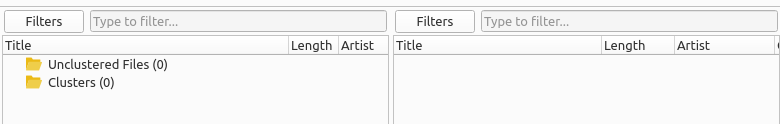
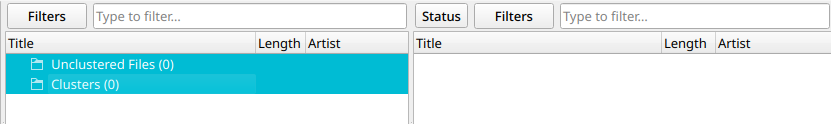
Added documentation for the Album Pane Status filter
A new Status filter button has been added to the Album Pane, that allows filtering Albums out based on whether the Status checkboxes are *unchecked*.
The supported statues are `Modified`, `Unmodified`, `Complete`, `Incomplete`

Changed region(s): [[0.0, 0.0242, 1.0, 1.0]]

diff --git a/getting_started/main_screen_filter.rst b/getting_started/main_screen_filter.rst
@@ -10,7 +10,10 @@ The items displayed in the Cluster Pane and the Album Pane can be filtered to al
 
 To filter the items in one of the panes, simply select one or more filters and enter the filter text to use for that pane. The items will be displayed or hidden based on the filter criteria entered.
 
-When the :guilabel:`Filters` button is clicked, a dialog will be displayed to allow to you to select the filters to use for that pane.
+Text Filters
+------------
+
+When the :guilabel:`Filters` button is clicked, a dialog will be displayed to allow you to select the filters to use for that pane.
 
 .. only:: not latex
 
@@ -28,3 +31,42 @@ When filtering is applied, items will only be displayed if:
 - a tag is found that matches one of the selected filters and the filter text is found within the tag value.
 
 Items will not be displayed if one or more tags were found in the selected filters and the filter text was not found in any values of those tags.
+
+Status Filters
+--------------
+
+Furthermore in the Album Pane, Albums can be filtered based on their modified and/or complete statuses.
+When the :guilabel:`Status` button is clicked, a menu will be displayed to allow to you to select the statuses to filter by in the Album pane.
+
+.. only:: not latex
+
+   .. image:: images/status_filter_selection_menu.png
+      :alt: Status filter menu
+
+.. only:: latex
+
+   .. image:: images/status_filter_selection_menu.png
+      :width: 30%
+      :alt: Status filter menu
+
+When status filtering is applied, Album items whose status match the unchecked filters will be not displayed.
+
+The list of filterable statuses are as follows:
+
+.. list-table::
+   :header-rows: 1
+
+   * - Status
+     - Description
+   * - Modified
+     - Album has pending modifications
+   * - Unmodified
+     - Album has no pending modifications
+   * - Complete
+     - Album contains no missing tracks
+   * - Incomplete
+     - Album has missing tracks
+
+.. note::
+
+   Unchecking the both statuses of Modified and Unmodified will cause all Albums to be filtered out. Similarly, unchecking both statuses of Complete and Incomplete will cause all Albums to be filtered out as well.
